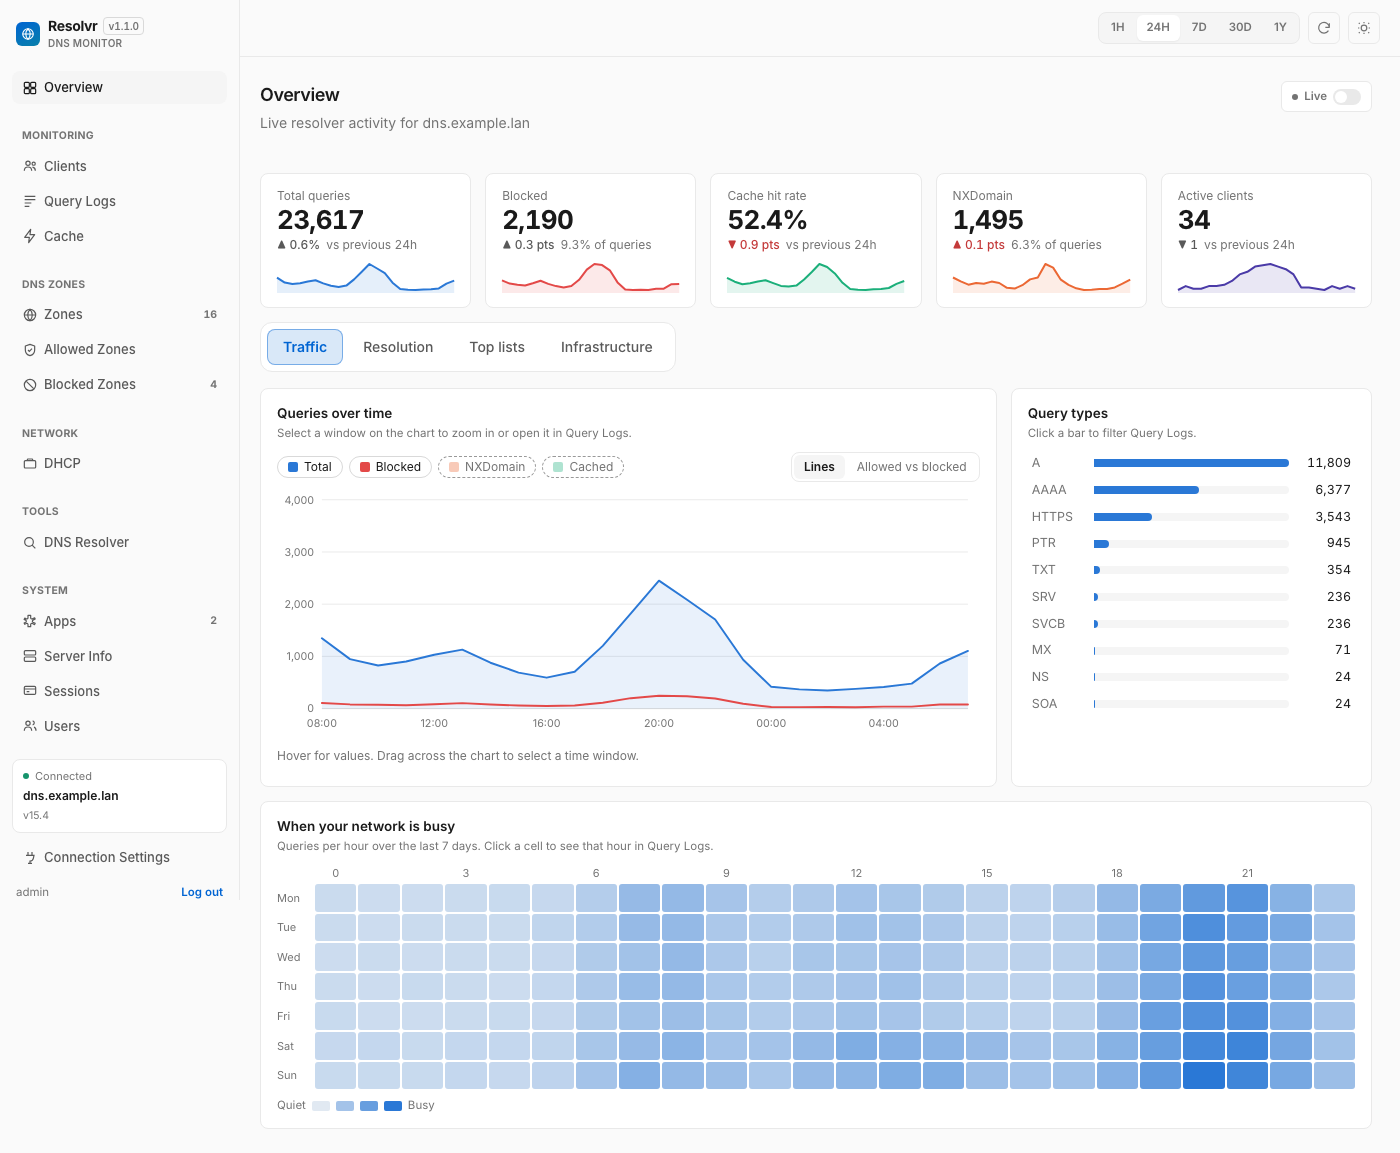
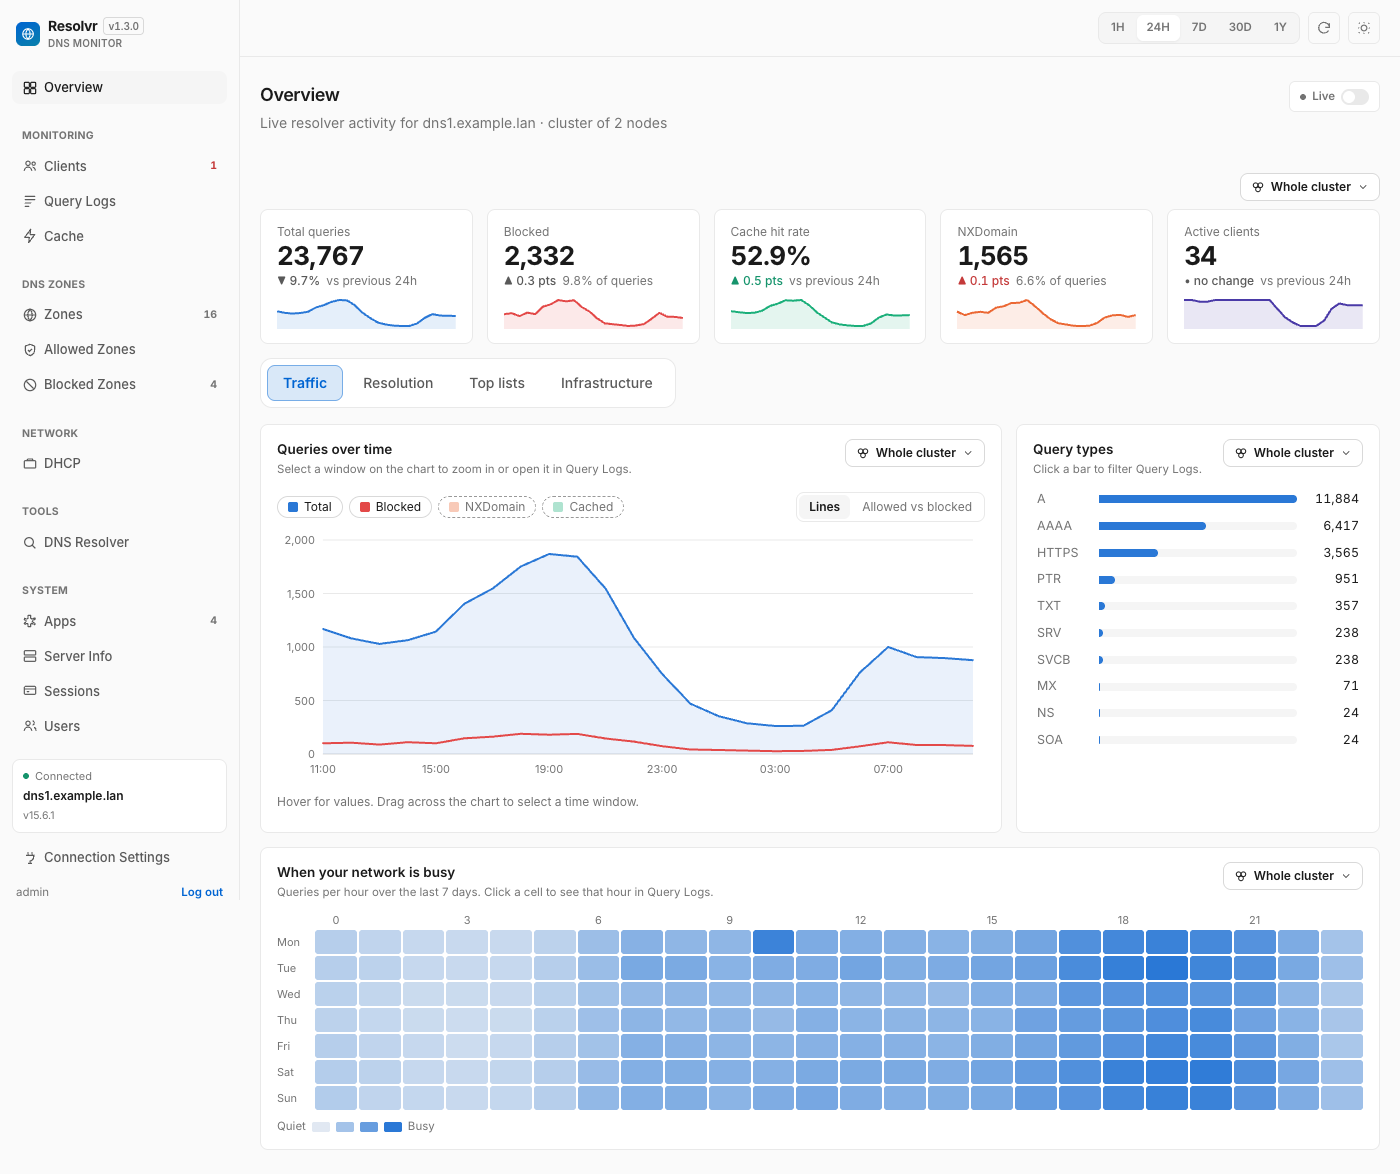
Release 1.3.0: version bump, refreshed screenshots, cluster section as a list
Bumps both services to 1.3.0, replaces the README screenshots with a
fabricated two-node cluster (example.* names, private-range IPs), adds a
cluster screenshot section, and splits the long cluster paragraph in the
README into one short item per page.

diff --git a/README.md b/README.md
@@ -23,7 +23,17 @@ A monitoring dashboard for [Technitium DNS Server](https://technitium.com/dns/) 
 - **Clients** — pick any device and see its queries, block rate, DHCP lease, activity, top and blocked domains, protocols and latest queries. A traffic-share bar and a recent-activity grid show who is busy; search, filter (heavy blocking, rate limited, new, quiet) and sort the list.
 - **Query Logs** with real filtering — client IP, query name, response type, protocol, RCODE, record type, and a time window — plus a per-host "allowed vs. blocked" breakdown, CSV export and a live-tail toggle.
 - **Blocked Zones** — a status card showing when the block lists were last updated and when the next update is, with an **Update now** button and a history of how many domains the lists held after each refresh. Below it, three tabs: **Feeds** (add, remove, reorder and group the feeds you subscribe to, with one save bar), **Your domains** (a searchable list of domains you block yourself, with paste-a-list and undo), and **Check a domain** (asks your server whether a name is blocked, and which feed blocked it).
-- **Technitium clusters** — when the server you connect to is part of a [Technitium cluster](https://technitium.com/dns/) (v14 and later), every Overview panel gets its own scope chip: **Whole cluster** (Technitium's aggregate statistics) or any single node. Panels fed by statistics default to the whole cluster, so one connection to any node covers all of them. Response time, the resolution flow, DHCP, zones and cache are kept per node by Technitium, so those panels pick a node. **Compare nodes** on *Queries over time* draws one line per node, and Infrastructure gains a **Cluster nodes** panel showing each node's role, state and share of traffic. Each panel remembers its choice in your browser. A standalone server looks exactly as before. The **Clients** page has one scope for the whole page (the list and the selected client must agree): each client's queries are merged from every node's query log, with a split bar per client, an *Answered by* strip, a *By node* activity view, a *Node* column in the latest queries, and a **One node only** filter that finds devices not using the second node. **Query Logs** works the same way: one scope for the page, with the nodes' logs merged by time (a *Node* column, per-node entry counts, an unreachable-node banner, and an export that merges every node into one CSV with a *Node* column). Technitium pages each node's log separately, so merged paging stops at 1,000 rows; narrow the filters or export to go further, or pick a single node to page as deep as before. **Cache** lays the nodes' caches side by side (each node keeps its own and they are not synced): a time-left column per node, "not cached" where a node lacks a record, which node holds each subdomain, a filter for records held on only some nodes, and a **Flush** that asks which node to clear (the others are not touched). **Zones** (which differ per node, since only catalog zones are shared) are matched up by name with a type per node, flagged *only on one node* or *serial differs*, and Add mapping / Delete ask which node(s) to apply to (every node by default). **Allowed Zones** and **Blocked Zones** are synced by Technitium, so they show whether each node has caught up (a sync strip, per-node presence, per-node counts and update schedule, **Update now** per node, whether the feed lists match, and a domain check that answers for each node). **DHCP** (scopes and leases are per node) merges the nodes' scopes and leases with a Node column and warns when the same scope range is defined on more than one node. **DNS Resolver** asks every node and says whether they agree. **DNS Apps** (installed per node) shows each app's version on every node and *not installed* where missing; uninstall asks which node. **Server Info** adds a Cluster card (roles, state, versions) and a side-by-side settings comparison that flags what differs. **Sessions** merges the nodes' sessions with a Node column and revokes on the node a session is on. **Users** (Resolvr's own accounts) and **Connection Settings** are not Technitium cluster data and are unchanged. On a standalone server none of the cluster additions appear.
+- **Technitium clusters** — when the server you connect to is part of a [Technitium cluster](https://technitium.com/dns/) (v14 and later), Resolvr shows every node. A standalone server looks exactly as before, with none of the cluster additions.
+  - **Scope on every panel.** Each Overview panel has a scope chip: **Whole cluster** (Technitium's aggregate statistics) or any single node. Panels fed by statistics default to the whole cluster, so one connection to any node covers all of them; response time, the resolution flow, DHCP, zones and cache are kept per node by Technitium, so those panels pick a node. Each panel remembers its choice in your browser.
+  - **Overview.** **Compare nodes** on *Queries over time* draws one line per node, and Infrastructure gains a **Cluster nodes** panel with each node's role, state and share of traffic.
+  - **Clients.** One scope for the whole page, so the list and the selected client agree. Each client's queries are merged from every node's query log, with a split bar per client, an *Answered by* strip, a *By node* activity view, a *Node* column in the latest queries, and a **One node only** filter that finds devices not using the second node.
+  - **Query Logs.** The nodes' logs are merged by time, with a *Node* column, per-node entry counts, an unreachable-node banner, and an export that merges every node into one CSV. Technitium pages each node's log separately, so merged paging stops at 1,000 rows; narrow the filters or export to go further, or pick a single node to page as deep as before.
+  - **Cache.** The nodes' caches side by side (each node keeps its own and they are not synced): a time-left column per node, "not cached" where a node lacks a record, which node holds each subdomain, and a filter for records held on only some nodes. **Flush** asks which node to clear; the others are not touched.
+  - **Zones.** Zones differ per node (only catalog zones are shared), so they are matched up by name with a type per node and flagged *only on one node* or *serial differs*. Add mapping and Delete ask which node(s) to apply to, every node by default.
+  - **Allowed Zones and Blocked Zones.** Technitium syncs these, so the pages show whether each node has caught up: a sync strip, per-node presence and counts, update schedule and **Update now** per node, whether the feed lists match, and a domain check that answers for each node.
+  - **DHCP.** Scopes and leases are per node, so they are merged with a Node column, with a warning when the same scope range is defined on more than one node.
+  - **DNS Resolver, DNS Apps, Server Info, Sessions.** The resolver asks every node and says whether they agree. Apps shows each app's version on every node and *not installed* where missing, and uninstall asks which node. Server Info adds a Cluster card (roles, state, versions) and a side-by-side settings comparison that flags what differs. Sessions are merged with a Node column and revoked on the node a session is on.
+  - **Unchanged.** **Users** (Resolvr's own accounts) and **Connection Settings** are not Technitium cluster data.
 - **Its own users and roles** — Admins can manage users, edit the Technitium connection, and use the handful of mutating actions below; Viewers get full read access to every monitoring page and nothing else.
 - **A set of deliberate, narrow admin actions** on top of an otherwise read-only design: flush the DNS cache, force a block-list update, add/remove a blocked domain, edit block list feeds, revoke a stale session, uninstall an app, and manage simple host-to-IP mappings (create a zone, add an A/AAAA record, delete the zone — the same pattern as AdGuard Home's "DNS rewrites"). Each one is a single hardcoded call to a specific Technitium endpoint, gated to the admin role, and confirmed before it runs — never a general write proxy.
 
@@ -41,7 +51,18 @@ The query-based panels (Resolution, Clients, Query Logs) need one of Technitium'
 | ![Blocked Zones: Your domains](docs/screenshots/blocked-zones-domains.png) | ![Blocked Zones: Check a domain](docs/screenshots/blocked-zones-check.png) |
 | ![Users](docs/screenshots/users.png) | ![Sign in](docs/screenshots/login.png) |
 
-The screenshots use made-up data: private-range IPs, generic device names, and `example.*` domains.
+### On a Technitium cluster
+
+When the server you connect to is part of a cluster, each panel gets a scope chip and the pages that differ per node show the nodes side by side.
+
+| | |
+|---|---|
+| ![Overview with Compare nodes: one line per node](docs/screenshots/overview-compare-nodes.png) | ![Scope chip: whole cluster, one node, or compare nodes](docs/screenshots/scope-menu.png) |
+| ![Cache: each node's cache side by side](docs/screenshots/cache.png) | ![Zones: matched up by name, flagged when only on one node](docs/screenshots/zones.png) |
+| ![Server Info: settings compared across nodes](docs/screenshots/server-info.png) | ![DHCP: scopes and leases merged with a Node column](docs/screenshots/dhcp.png) |
+| ![DNS Apps: each app's version on every node](docs/screenshots/apps.png) | |
+
+The screenshots use made-up data: private-range IPs, generic device names, `example.*` domains, and a two-node cluster called `dns1.example.lan` and `dns2.example.lan`.
 
 ## Architecture
 
